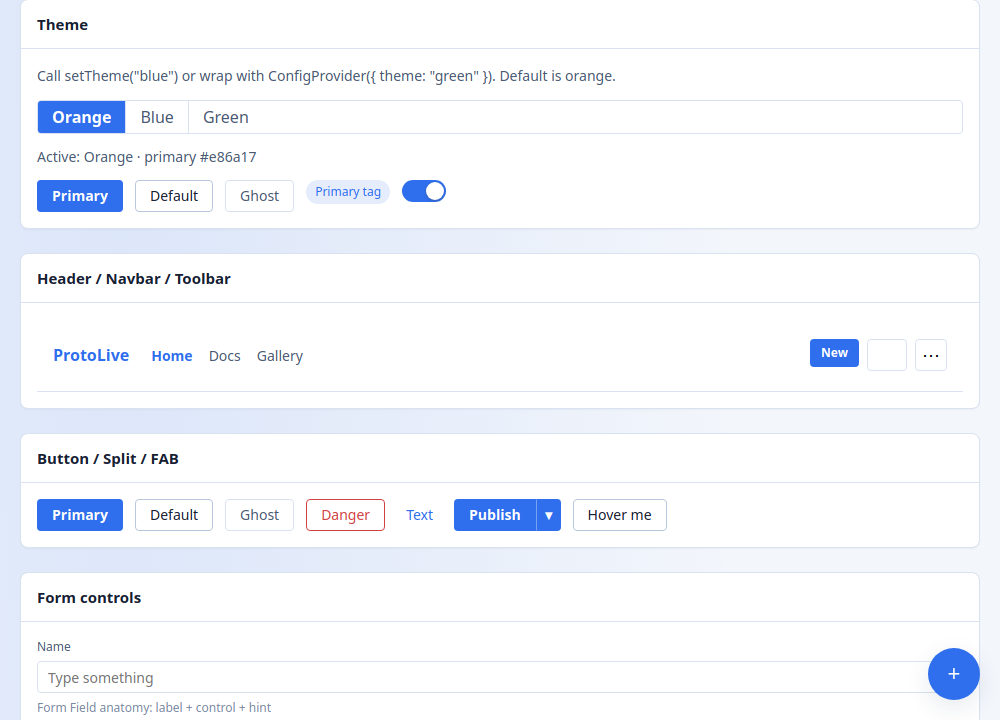
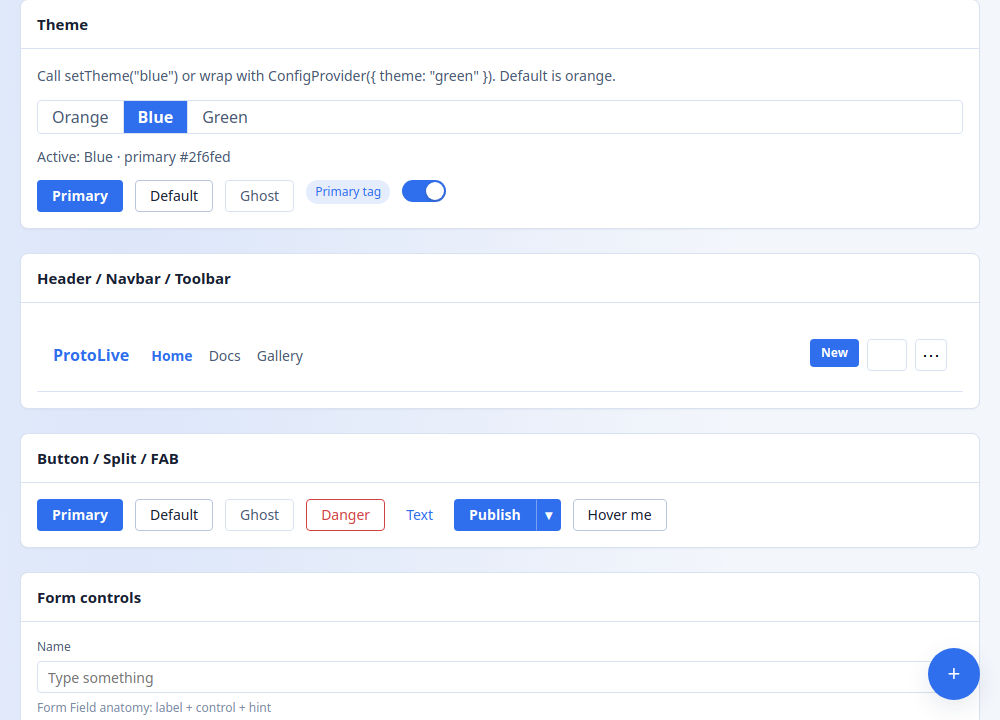
Fix gallery theme switcher rebuild; refresh theme screenshots
Clear component ref on theme change so ensureShell repaints, and
re-capture orange/blue/green README preview images.

Changed region(s): [[0.031, 0.1222, 0.248, 0.1833], [0.093, 0.2139, 0.248, 0.2444]]

diff --git a/examples/ui-gallery.js b/examples/ui-gallery.js
@@ -226,6 +226,8 @@ class GalleryPage extends Component {
                 value: d.theme,
                 onChange: (theme) => {
                   setTheme(theme);
+                  // Full-page ensureShell skips rebuild; clear ref so theme UI repaints.
+                  this.state.ref = {};
                   this.setData({ theme });
                 },
                 options: Object.keys(themes).map((key) => ({
